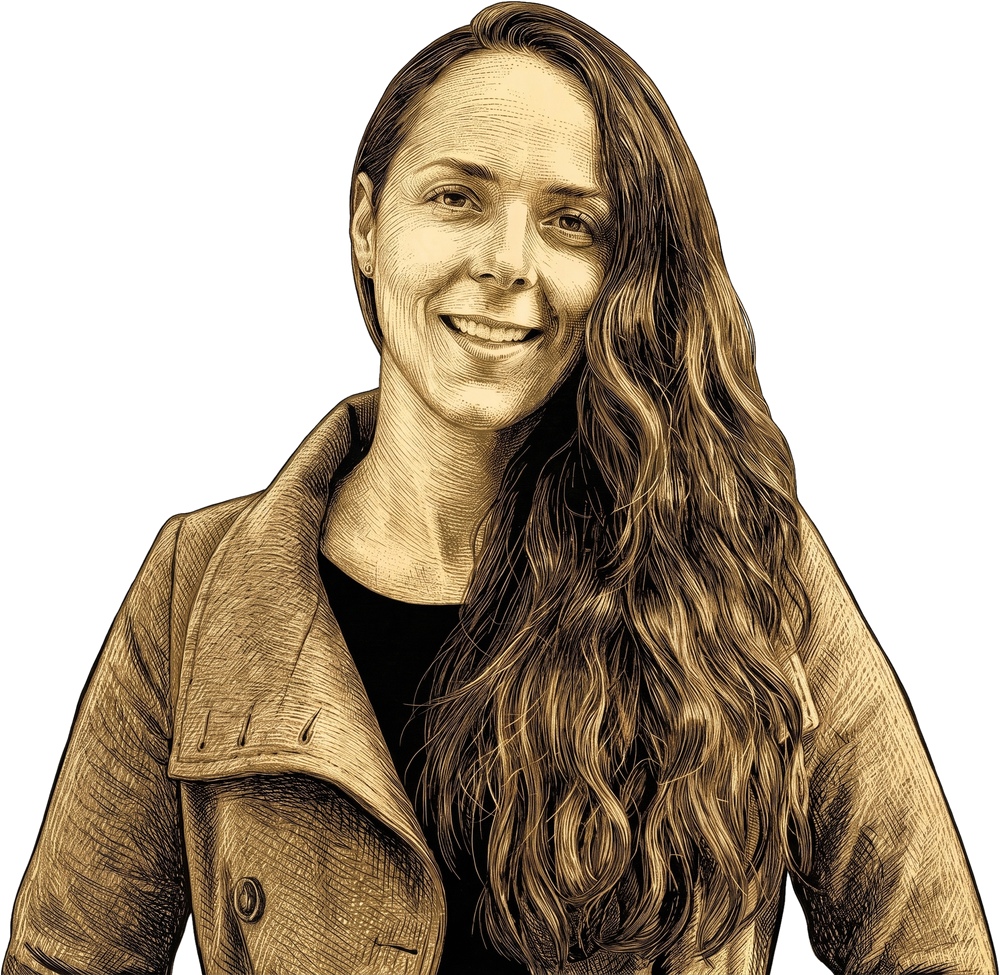
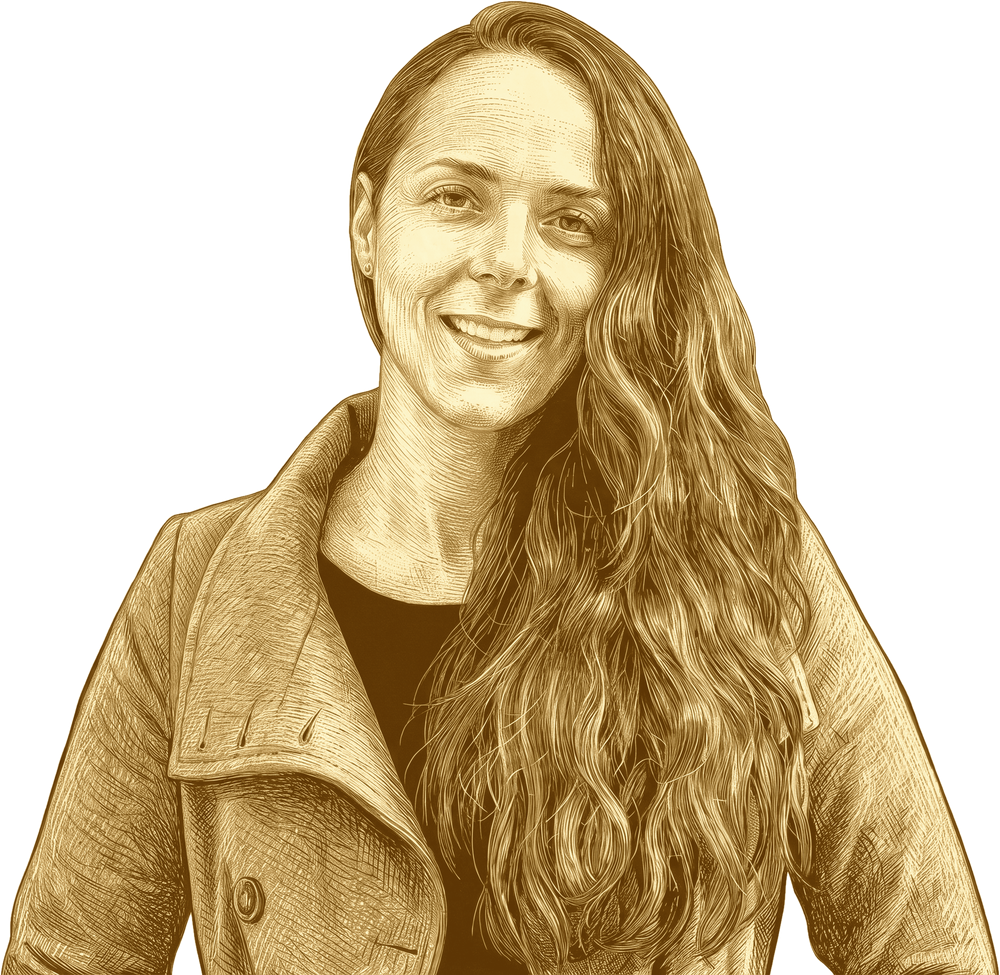
Life: portrait in the same ink sepia tone as the Linus illustrations
Claude-Session: https://claude.ai/code/session_016R5T8HULVGKfAE3PW3pdJb

diff --git a/site/life/index.html b/site/life/index.html
@@ -63,7 +63,7 @@
 <p class="life-description">I’m passionate about <strong>design, the open web, open source, robotics, ecology &amp; science.</strong> When I’m away from the screen, you’ll usually find me lost in a book or wandering with my dogs in the forest.</p>
         </div>
         <div class="life-header-right">
-            <img src="/img/life/mariona-engraving.png" alt="Engraving-style portrait of Mariona smiling, with long wavy hair and a coat, drawn in sepia and gold" class="linus-image-school life-portrait">
+            <img src="/img/life/mariona-engraving.png?v=2" alt="Engraving-style portrait of Mariona smiling, with long wavy hair and a coat, drawn in sepia and gold" class="linus-image-school life-portrait">
         </div>
     </div>
 </section>
